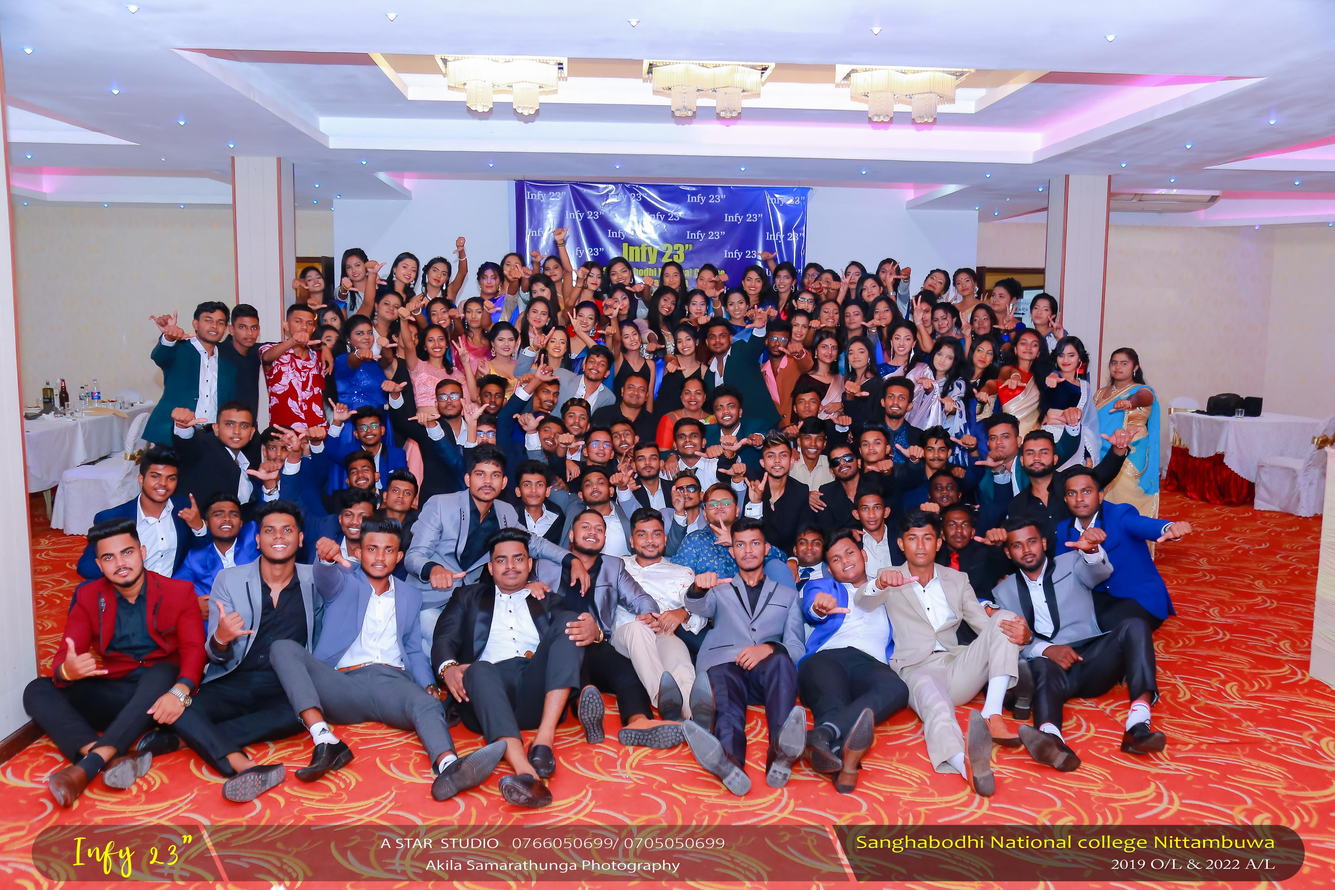
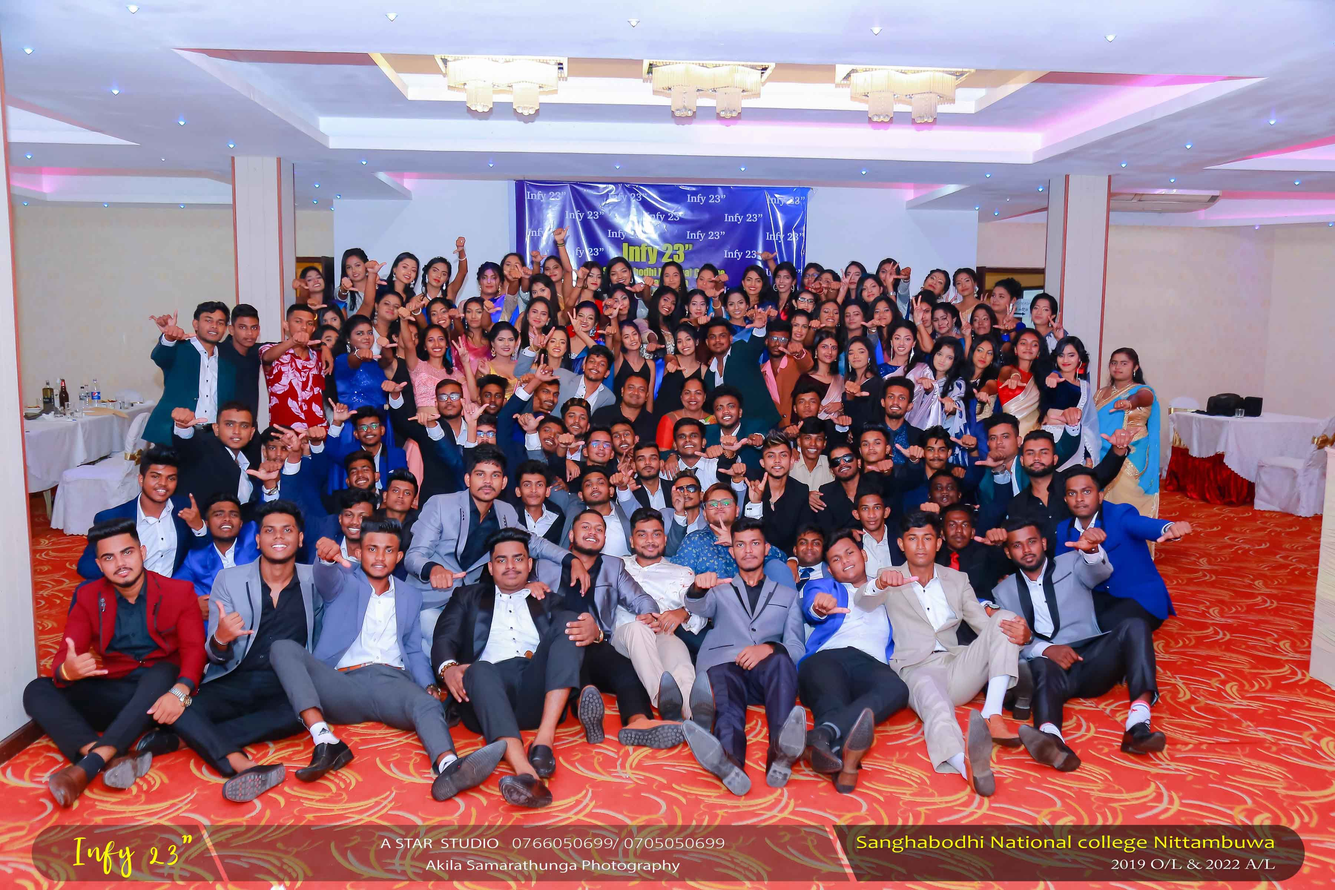
#Images to WEBP ✅

diff --git a/Client/src/assets/index.js b/Client/src/assets/index.js
@@ -3,9 +3,9 @@ import brainwaveWhiteSymbol from "./brainwave-symbol-white.svg";
 import grid from "./grid.png";
 import yourlogo from "./brainwave.png";
 import background from "./background.webp";
-import aboutimg from "./about.jpg"
+import aboutimg from "./about.webp"
 import curve from "./hero/curve.png";
-import me from './me.jpg';
+import me from './me.webp';
 import mern from './mern.png';
 
 
